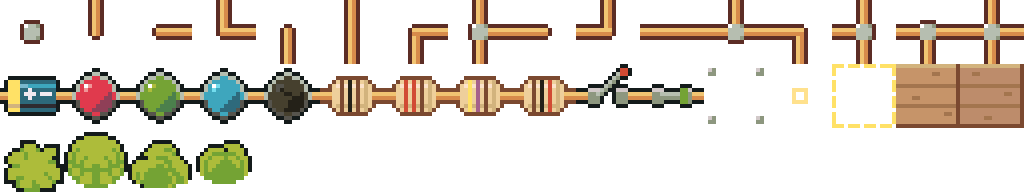
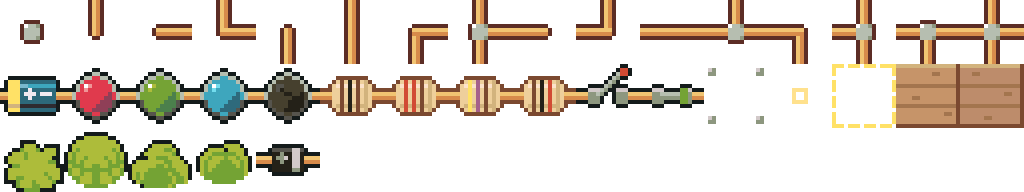
Diodes: a new one-way part, two harbour jobs that teach it, and Bolt the warehouse robot

Changed region(s): [[0.25, 0.75, 0.3125, 0.9375]]

diff --git a/src/levels/chapter3.ts b/src/levels/chapter3.ts
@@ -150,6 +150,30 @@ export const CHAPTER_3: ChapterDef = {
       ],
     },
     {
+      id: 36,
+      title: 'One Way',
+      job: {
+        client: 'sal',
+        place: 'Sal’s bilge lamp',
+        building: 'boat',
+        ask: 'My bilge lamp’s out. Gran sent this funny little part, a diode. She says it only lets current go ONE way. Sounds like my old ferry.',
+        thanks: 'Steady as the lighthouse! One-way traffic, eh? Clever little thing.',
+      },
+      tip: 'A diode is a one-way street. Current may only go the way its arrow points, from + round to −. If nothing lights, turn it around.',
+      stars: [{ kind: 'safe' }, { kind: 'solo' }],
+      intro: 'Light the LED, with the diode in the loop the right way round.',
+      board: ['. .  .  .  .', '. B^ .  Lv .', '. .  .  .  .'],
+      solution: ['. ┌  D>   ┐  .', '. B^ .    Lv .', '. └  R100 ┘  .'],
+      inventory: { diode: 1, r100: 1 },
+      wireBudget: 6,
+      goals: [{ kind: 'lit', led: 'A' }],
+      newPart: {
+        name: 'Diode',
+        token: 'D>',
+        text: 'A diode lets current through one way only: the way its arrow points. Put it in backwards and it blocks the flow completely.',
+      },
+    },
+    {
       id: 24,
       title: 'Party Lights',
       job: {
@@ -212,6 +236,45 @@ export const CHAPTER_3: ChapterDef = {
       inventory: { battery: 1, r220: 1 },
       wireBudget: 14,
       goals: [{ kind: 'only', leds: ['A', 'B', 'C'], brightness: 'bright' }],
+    },
+    {
+      id: 37,
+      title: 'Doorbell',
+      job: {
+        client: 'bolt',
+        place: 'The warehouse doors',
+        building: 'warehouse',
+        ask: 'BEEP. Warehouse rules: the MAIN switch lights BOTH door lamps. The SIDE switch lights only the SIDE lamp. Right now both switches light both. Error. Error.',
+        thanks: 'Rules restored. BEEP BOOP. That is robot for “thank you”.',
+      },
+      tip: 'Join the two switch paths with a plain wire and current runs back the wrong way, lighting both. You need something that only lets it go one way.',
+      stars: [{ kind: 'safe' }, { kind: 'solo' }],
+      intro: 'Main switch (S1): both lamps. Side switch (S2): only lamp B.',
+      board: [
+        '.  .   S0 .  .  .  .',
+        '.  S0v .  .  .  .  Lv',
+        'B^ .   .  .  .  .  .',
+        '.  .   .  .  Lv .  .',
+        '.  .   .  .  .  .  .',
+        '.  .   .  .  .  .  .',
+      ],
+      solution: [
+        '┌  ┬   S0 ┬  ─     ─ ┐',
+        '│  S0v .  Dv .     . Lv',
+        'B^ └   ─  ┴  ┐     . R100v',
+        '│  .   .  .  Lv    . │',
+        '│  .   .  .  R100v . │',
+        '└  ─   ─  ─  ┴     ─ ┘',
+      ],
+      labels: { A: [6, 1], B: [4, 3], S1: [2, 0], S2: [1, 1] },
+      inventory: { diode: 1, r100: 2 },
+      wireBudget: 24,
+      goals: [
+        { kind: 'only', leds: ['A', 'B'], when: { S1: true } },
+        { kind: 'only', leds: ['B'], when: { S2: true } },
+        { kind: 'dark', led: 'A' },
+        { kind: 'dark', led: 'B' },
+      ],
     },
     {
       id: 34,

diff --git a/src/world/harbour.ts b/src/world/harbour.ts
@@ -144,7 +144,7 @@ function ferryPier(b: MapBuilder) {
     {
       id: 'pier',
       name: 'Ferry Pier',
-      jobs: [22, 24],
+      jobs: [22, 24, 36],
       intro: 'pier-intro',
       outro: 'pier-outro',
       entry: { x: 64, y: 25, facing: 'right' },
@@ -167,6 +167,11 @@ function ferryPier(b: MapBuilder) {
   rocks(b, [[75, 37], [82, 35], [63, 34]]);
   b.lamp(67, 26, 'area:pier', 'hook');
   b.lamp(80, 26, 'area:pier', 'hook');
+  // Sal's bilge lamp, on the little jetty.
+  b.group('job:36', [36]);
+  b.lamp(76, 26, 'job:36', 'post');
+  b.spots.push({ kind: 'job', x: 76, y: 26, job: 36 });
+  b.resident('sal', 75, 26, 'right', { job: 36 });
 }
 
 // ── H4: Warehouse Row ────────────────────────────────────────────────────────
@@ -175,7 +180,7 @@ function warehouses(b: MapBuilder) {
     {
       id: 'warehouses',
       name: 'Warehouse Row',
-      jobs: [25, 34],
+      jobs: [25, 37, 34],
       intro: 'warehouse-intro',
       outro: 'warehouse-outro',
       entry: { x: 86, y: 25, facing: 'right' },
@@ -185,21 +190,22 @@ function warehouses(b: MapBuilder) {
   );
   b.wall(84, 24, 26, 'fence');
   b.gate(3, [{ x: 84, y: 24 }, { x: 84, y: 25 }, { x: 84, y: 26 }]);
-  b.plaza(85, 20, 20, 7, true);
-  b.skyline(85, 105, 16, 'area:warehouses');
-  cityJob(b, 25, 'rosa', 86, 15, 6, 3);
+  b.plaza(85, 19, 20, 8, true);
+  cityJob(b, 25, 'rosa', 85, 14, 6, 3);
+  // Bolt's warehouse: the doors that need the diode trick.
+  cityJob(b, 37, 'bolt', 92, 14, 5, 3);
   // The harbour power station: where Grumble has dug in.
   b.group('job:34', [34]);
-  const door = b.building({ x: 95, y: 13, w: 8, roof: 3, roofStyle: 'slate', wall: 'red', door: 'double', window: 'wide', group: 'job:34' });
+  const door = b.building({ x: 98, y: 14, w: 7, roof: 3, roofStyle: 'slate', wall: 'red', door: 'double', window: 'wide', group: 'job:34' });
   b.spots.push({ kind: 'job', x: door.x, y: door.y - 1, job: 34 });
   b.doorLight(door, 'job:34');
   b.resident('rosa', door.x + 1, door.y, 'down', { job: 34 });
   b.resident('grumble', door.x - 2, door.y, 'right', { until: 'job:34', after: 'job:25' });
   for (const x of [88, 89, 101, 102]) b.prop(x, 23, 'crate');
   b.prop(90, 23, 'barrel');
-  b.prop(98, 26, 'cone');
-  b.prop(99, 26, 'cone');
-  b.lamp(92, 26, 'area:warehouses', 'twin');
+  b.prop(97, 25, 'cone');
+  b.prop(98, 25, 'cone');
+  b.lamp(91, 26, 'area:warehouses', 'twin');
   b.lamp(104, 22, 'area:warehouses', 'twin');
   b.treeLine(84, 106, 'top', 9, ['pine', 'round']);
   rocks(b, [[90, 36], [100, 34]]);

diff --git a/src/engine/circuit.ts b/src/engine/circuit.ts
@@ -12,7 +12,7 @@
 //   switch          + ──R── −   (wire resistance when closed, 1 GΩ when open)
 //   block           nothing
 
-import {
+import { DIODE_MODEL,
   BATTERY_INTERNAL_RESISTANCE,
   LED_MODELS,
   OPEN_SWITCH_RESISTANCE,
@@ -56,6 +56,13 @@ export interface Circuit {
  */
 export function ledDiodeModel(color: keyof typeof LED_MODELS): DiodeModel {
   const m = LED_MODELS[color];
+  const nVt = m.emissionCoefficient * THERMAL_VOLTAGE;
+  const junctionVoltage = m.ratedVoltage - m.ratedCurrent * m.seriesResistance;
+  return { nVt, is: m.ratedCurrent / Math.expm1(junctionVoltage / nVt) };
+}
+
+export function diodeModel(): DiodeModel {
+  const m = DIODE_MODEL;
   const nVt = m.emissionCoefficient * THERMAL_VOLTAGE;
   const junctionVoltage = m.ratedVoltage - m.ratedCurrent * m.seriesResistance;
   return { nVt, is: m.ratedCurrent / Math.expm1(junctionVoltage / nVt) };
@@ -142,16 +149,17 @@ export function buildCircuit(board: Board): Circuit {
       const e = add({ type: 'R', a: p, b: m, ohms, cell });
       port(cell, plus, e, 'a');
       port(cell, minus, e, 'b');
-    } else if (tile.kind === 'led') {
+    } else if (tile.kind === 'led' || tile.kind === 'diode') {
       const x = nodeCount++;
       const rs = add({
         type: 'R',
         a: p,
         b: x,
-        ohms: LED_MODELS[tile.color].seriesResistance,
+        ohms: tile.kind === 'led' ? LED_MODELS[tile.color].seriesResistance : DIODE_MODEL.seriesResistance,
         cell,
       });
-      const d = add({ type: 'D', a: x, b: m, model: ledDiodeModel(tile.color), cell });
+      const model = tile.kind === 'led' ? ledDiodeModel(tile.color) : diodeModel();
+      const d = add({ type: 'D', a: x, b: m, model, cell });
       port(cell, plus, rs, 'a');
       port(cell, minus, d, 'b');
     } else {

diff --git a/src/engine/parse.ts b/src/engine/parse.ts
@@ -1,5 +1,5 @@
 // Build boards from little text pictures. Used by tests and by level definitions.
-import { battery, block, led, resistor, switchTile, wire } from './tiles';
+import { battery, block, diode, led, resistor, switchTile, wire } from './tiles';
 import type { Board, LedColor, Rotation, Tile } from './types';
 
 /**
@@ -10,6 +10,7 @@ import type { Board, LedColor, Rotation, Tile } from './types';
  *   B6^ B9>        battery of another voltage
  *   L> L< Lv L^    red LED; the arrow points anode → cathode (L> has anode on W)
  *   Lg> Lb^        green / blue LED
+ *   D> D< Dv D^    diode; the arrow points anode → cathode, the way current may flow
  *   R100 R100v     resistor, horizontal / vertical
  *   S0 S1 S0v S1v  switch open (0) / closed (1), horizontal / vertical
  */
@@ -65,6 +66,8 @@ export function parseToken(token: string): Tile | null {
     // (rotation 0), the opposite arrow convention to an LED.
     return battery(((rot + 2) % 4) as Rotation, head.length > 1 ? Number(head.slice(1)) : 3);
   }
+  const dm = /^D([<>v^])$/.exec(token);
+  if (dm) return diode(ARROW_ROTATION[dm[1] as keyof typeof ARROW_ROTATION]);
   const sw = /^S([01])(v?)$/.exec(token);
   if (sw) return switchTile(sw[1] === '1', sw[2] ? 1 : 0);
   const r = /^R(\d+)(v?)$/.exec(token);

diff --git a/src/engine/simulate.ts b/src/engine/simulate.ts
@@ -1,7 +1,7 @@
 // Board in, per-tile physics results out.
 
 import { buildCircuit } from './circuit';
-import { CURRENT_EPSILON, LED_MODELS, SHORT_CIRCUIT_CURRENT } from './constants';
+import { DIODE_MODEL, CURRENT_EPSILON, LED_MODELS, SHORT_CIRCUIT_CURRENT } from './constants';
 import { solveNetlist } from './mna';
 import { getTerminals } from './tiles';
 import type { Board, ComponentStatus, Direction, SimulationResult, TileResult } from './types';
@@ -91,6 +91,11 @@ export function simulate(board: Board): SimulationResult {
     } else if (tile.kind === 'switch') {
       current = intoPlus;
       status = tile.closed && Math.abs(current) > CURRENT_EPSILON ? 'OK' : 'OFF';
+    } else if (tile.kind === 'diode') {
+      current = intoPlus;
+      if (bypassed) status = 'BYPASSED';
+      else if (powered && voltage < -DIODE_MODEL.reverseVoltage) status = 'REVERSED';
+      else status = current > CURRENT_EPSILON ? 'OK' : 'OFF';
     } else if (tile.kind === 'resistor') {
       current = intoPlus;
       status = bypassed ? 'BYPASSED' : Math.abs(current) > CURRENT_EPSILON ? 'OK' : 'OFF';

diff --git a/src/levels/levels.test.ts b/src/levels/levels.test.ts
@@ -425,3 +425,21 @@ describe('goal text', () => {
     expect(describeGoal(getLevel(24)!.goals[0]!, {}, 0)).toBe('Light all 4 LEDs brightly');
   });
 });
+
+describe('diodes', () => {
+  it('conduct one way and block the other', () => {
+    const forward = simulate(parseBoard(['┌  D>   ┐', 'B^ .    Lv', '└  R100 ┘']));
+    const backward = simulate(parseBoard(['┌  D<   ┐', 'B^ .    Lv', '└  R100 ┘']));
+    expect(forward.tiles[5]!.status).toBe('OK');
+    expect(forward.tiles[5]!.brightness).toBeGreaterThan(0.05);
+    expect(backward.tiles[1]!.status).toBe('REVERSED');
+    expect(backward.tiles[5]!.status).toBe('OFF');
+  });
+
+  it('are the only way to solve the Doorbell: a plain wire lights both lamps from S2', () => {
+    const level = getLevel(37)!;
+    const withWire = level.solution!.map((row) => row.replace('Dv', '│ '));
+    expect(check(37, level.solution!).complete).toBe(true);
+    expect(check(37, withWire).complete).toBe(false);
+  });
+});

diff --git a/src/world/people.generated.ts b/src/world/people.generated.ts
@@ -1,7 +1,7 @@
 // Generated by scripts/art.mjs. Do not edit.
 
 /** Column of each person (and pet) in assets/art/people.png (64px each). */
-export const PEOPLE = ["hero","gran","pell","okoro","rafi","theo","twins","arjun","nadia","ito","finch","benny","coral","luca","sunny","iris","dot","mei","rosa","sal","gus","lumen","pip","grumble","wren","marigold","hero-ember","hero-tide","hero-moss","hero-plum","hero-snow","scout","hoot","penny"] as const;
+export const PEOPLE = ["hero","gran","pell","okoro","rafi","theo","twins","arjun","nadia","ito","finch","benny","coral","luca","sunny","iris","dot","mei","rosa","sal","gus","lumen","pip","grumble","wren","bolt","marigold","hero-ember","hero-tide","hero-moss","hero-plum","hero-snow","scout","hoot","penny"] as const;
 
 /** Extras along the bottom row (16px cells): the shadow, then speech bubbles. */
 export const EXTRAS = ["shadow","chat","job","question","heart","star"] as const;

diff --git a/src/render/TileModel.tsx b/src/render/TileModel.tsx
@@ -58,6 +58,17 @@ export function TileModel({ tile, result, ghost = false }: Props) {
           ))}
         </>
       )}
+      {tile.kind === 'diode' && (
+        <>
+          {/* Black body, silver stripe at the cathode (−, east) end. */}
+          <Arm dir={W} length={0.26} material={wireMat} />
+          <Arm dir={E} length={0.26} material={wireMat} />
+          <mesh geometry={g.resistorBody} material={pick(m.diodeBody)} position-y={TOP + 0.12} scale={[0.85, 0.9, 0.9]} />
+          <mesh geometry={g.resistorBand} material={pick(m.diodeBand)} position={[0.1, TOP + 0.12, 0]} scale={[1.6, 0.9, 0.9]} />
+          <Plus position={[-0.3, TOP + 0.03, 0.27]} material={pick(m.marking)} />
+          <Minus position={[0.3, TOP + 0.03, 0.27]} material={pick(m.marking)} />
+        </>
+      )}
       {tile.kind === 'battery' && (
         <>
           <Arm dir={W} length={0.18} material={wireMat} />

diff --git a/src/ui/LevelScreen.tsx b/src/ui/LevelScreen.tsx
@@ -32,6 +32,7 @@ import {
   type SimulationResult,
   type Tile,
   battery,
+  diode,
   isTwoTerminal,
   led,
   parseToken,
@@ -106,6 +107,7 @@ const PART_ORDER: PartKey[] = [
   'r220',
   'r470',
   'r1000',
+  'diode',
 ];
 
 function tileForPart(key: PartKey): Tile {
@@ -113,6 +115,7 @@ function tileForPart(key: PartKey): Tile {
   if (key === 'led') return led(0);
   if (key === 'ledGreen') return led(0, 'green');
   if (key === 'ledBlue') return led(0, 'blue');
+  if (key === 'diode') return diode(0);
   return resistor(Number(key.slice(1)), 0);
 }
 
@@ -121,6 +124,7 @@ function partLabel(key: PartKey): string {
   if (key === 'led') return 'Red';
   if (key === 'ledGreen') return 'Green';
   if (key === 'ledBlue') return 'Blue';
+  if (key === 'diode') return 'Diode';
   return formatOhms(Number(key.slice(1)));
 }
 

diff --git a/src/engine/types.ts b/src/engine/types.ts
@@ -63,9 +63,14 @@ export interface SwitchTile extends TileBase {
   closed: boolean;
 }
 
-export type Tile = WireTile | BlockTile | ResistorTile | LedTile | BatteryTile | SwitchTile;
+/** A diode: current flows anode (+, W at rotation 0) → cathode only. Like an LED that doesn't glow. */
+export interface DiodeTile extends TileBase {
+  kind: 'diode';
+}
+
+export type Tile = WireTile | BlockTile | ResistorTile | LedTile | BatteryTile | SwitchTile | DiodeTile;
 /** Parts with a + and a − terminal on opposite sides. */
-export type TwoTerminalTile = ResistorTile | LedTile | BatteryTile | SwitchTile;
+export type TwoTerminalTile = ResistorTile | LedTile | BatteryTile | SwitchTile | DiodeTile;
 export type TileKind = Tile['kind'];
 
 /** A rectangular grid. Cell (x, y) lives at index y * width + x; y grows towards S. */

diff --git a/src/render/assets.ts b/src/render/assets.ts
@@ -85,6 +85,7 @@ function create() {
       led: soft(COLORS.ledBase),
       battery: soft(COLORS.batteryBase),
       switch: soft(COLORS.switchBase),
+      diode: soft('#dfe3ee'),
       block: soft(COLORS.blockStone),
     },
     bush: soft(COLORS.bush),
@@ -100,6 +101,8 @@ function create() {
     markingLight: soft(COLORS.markingLight),
     rivet: soft(COLORS.lockedRivet),
     resistorBody: soft(COLORS.resistorBody),
+    diodeBody: soft('#2b2833', { roughness: 0.45 }),
+    diodeBand: soft('#e6e8ef', { roughness: 0.35, metalness: 0.3 }),
     bands: BAND_COLORS.map((c) => soft(c)),
     batteryBody: soft(COLORS.batteryBody, { roughness: 0.55 }),
     batteryCap: soft(COLORS.batteryCap, { roughness: 0.4, metalness: 0.2 }),

diff --git a/src/engine/constants.ts b/src/engine/constants.ts
@@ -30,6 +30,16 @@ export const GMIN = 1e-12;
 /** Currents below this count as "no current" when deciding statuses. */
 export const CURRENT_EPSILON = 1e-6;
 
+/** A small silicon diode (1N4148-ish): about 0.7 V forward at 10 mA. */
+export const DIODE_MODEL = {
+  ratedVoltage: 0.7,
+  ratedCurrent: 0.01,
+  emissionCoefficient: 1.8,
+  seriesResistance: 1,
+  /** A reverse voltage larger than this marks it as blocking (REVERSED). */
+  reverseVoltage: 0.3,
+};
+
 export interface LedModel {
   /** Rated forward voltage at the rated current (datasheet Vf). */
   ratedVoltage: number;
